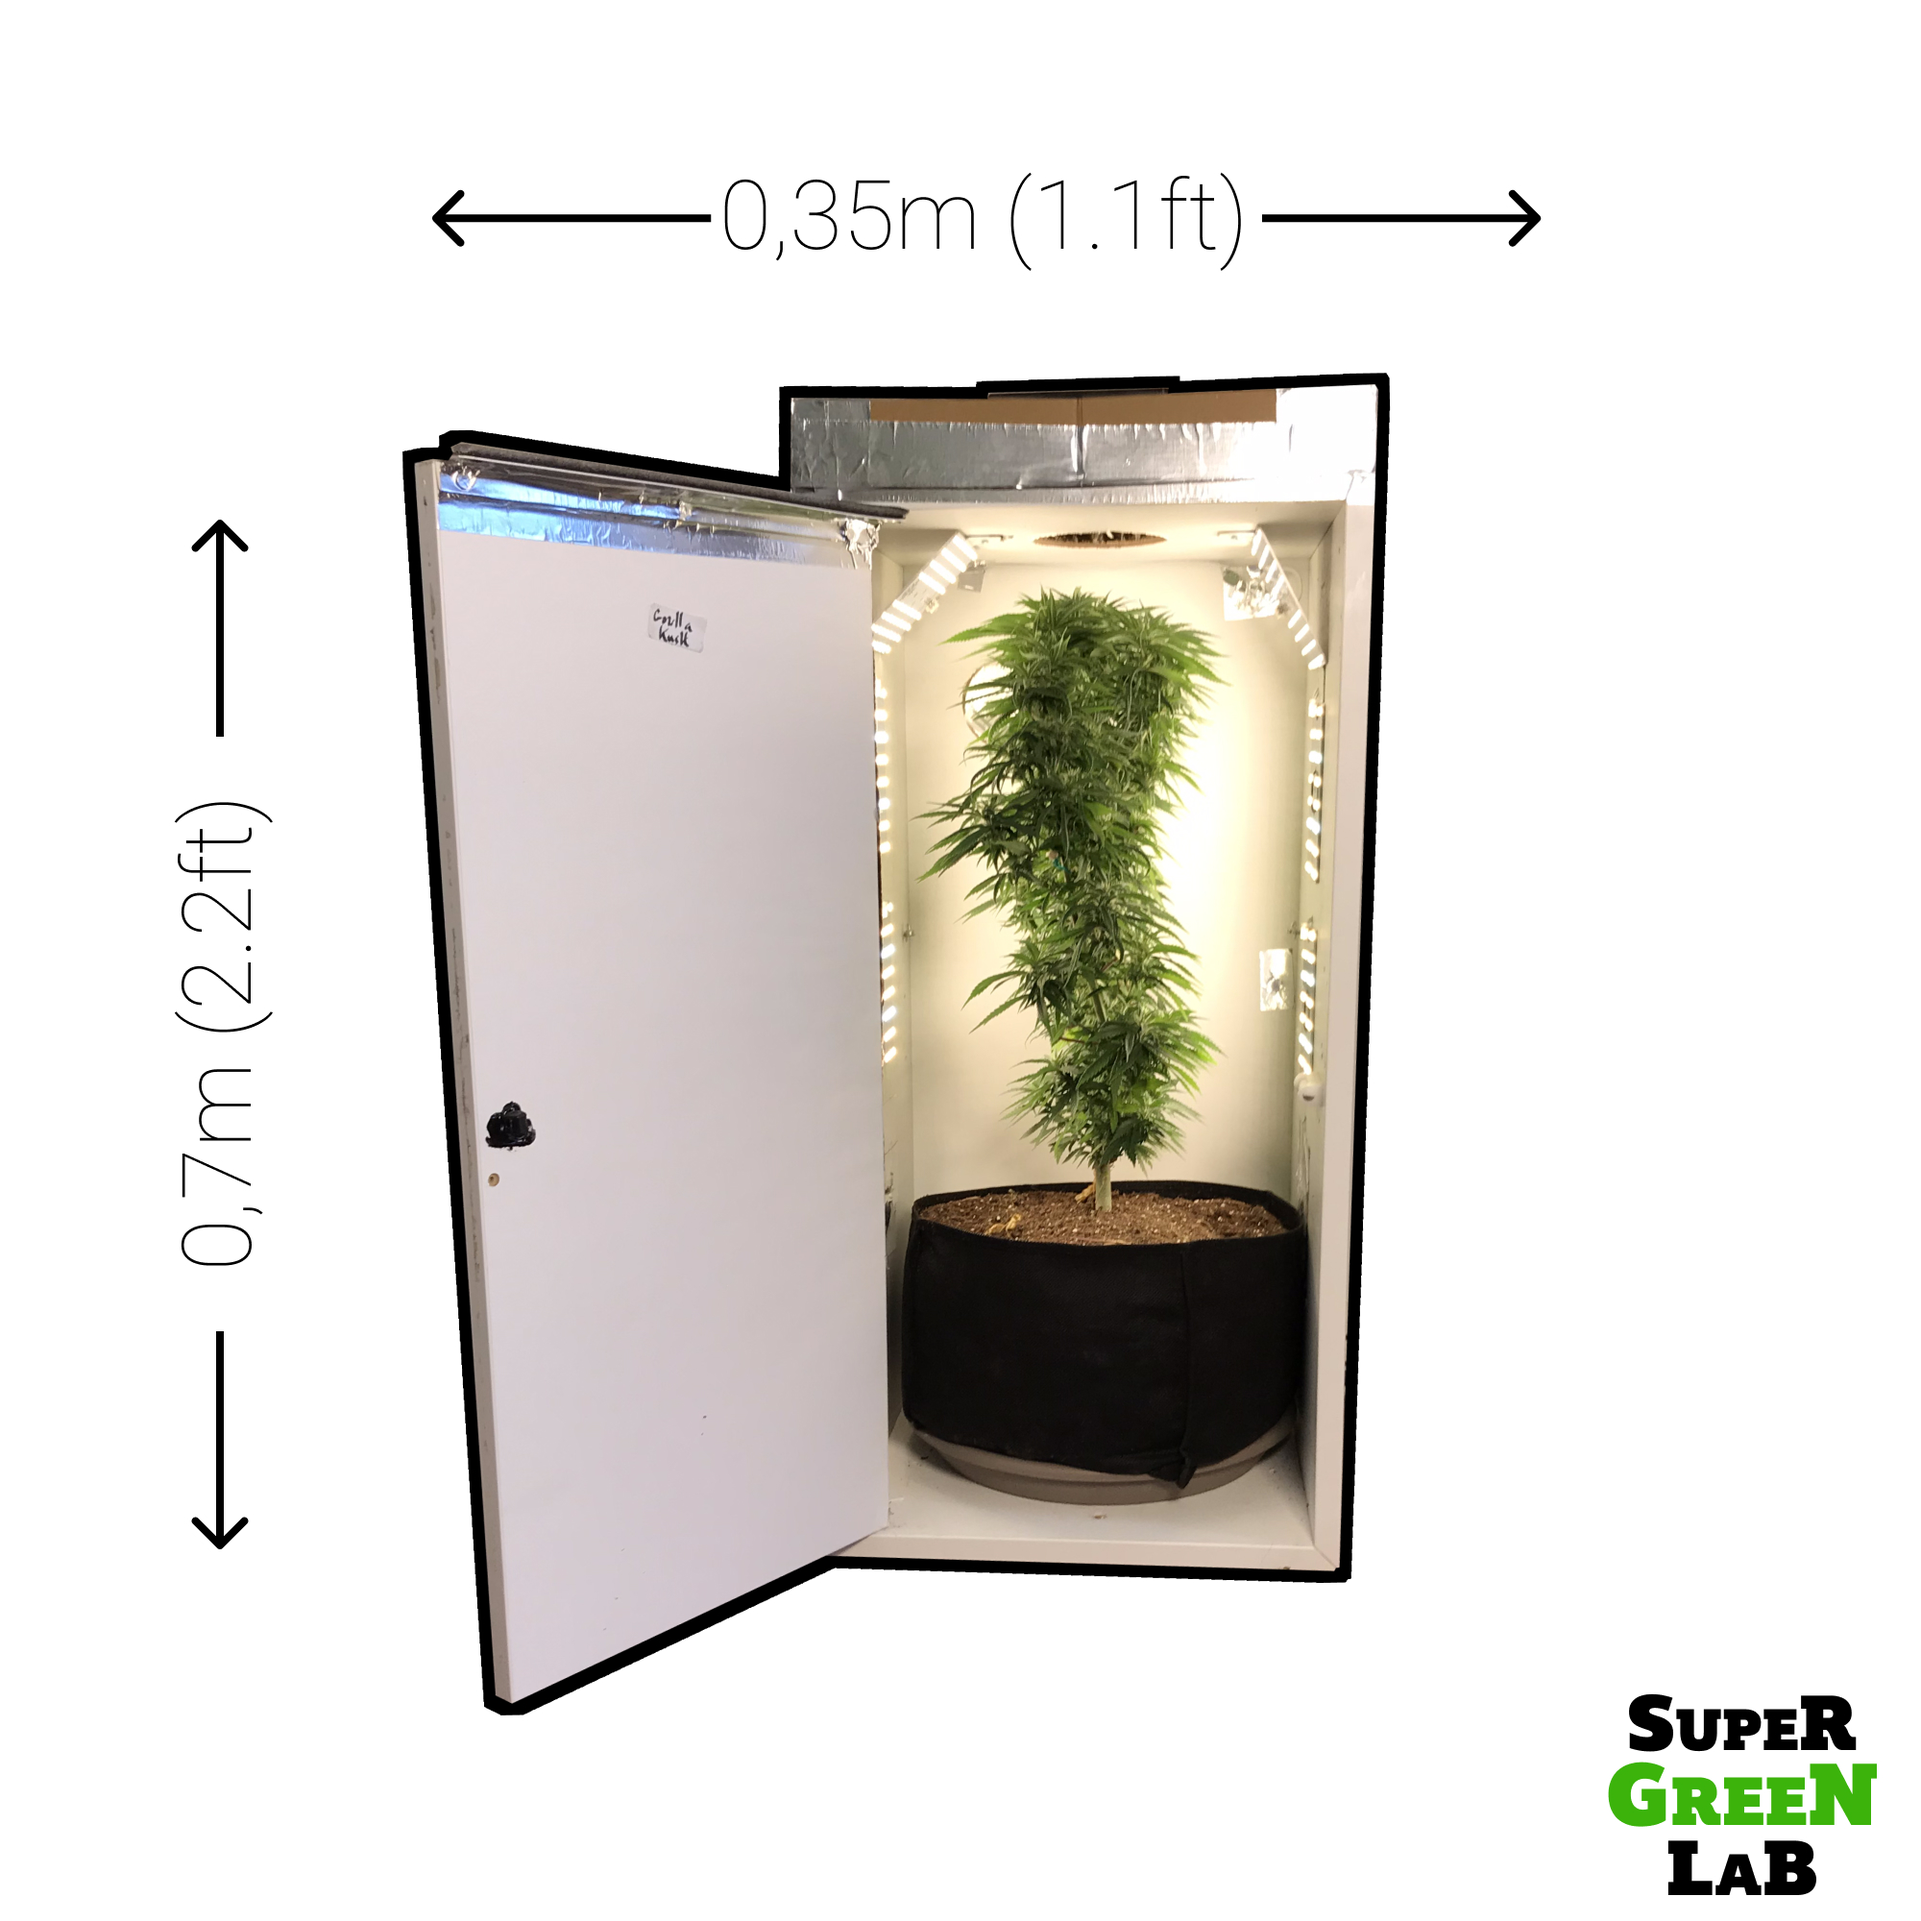
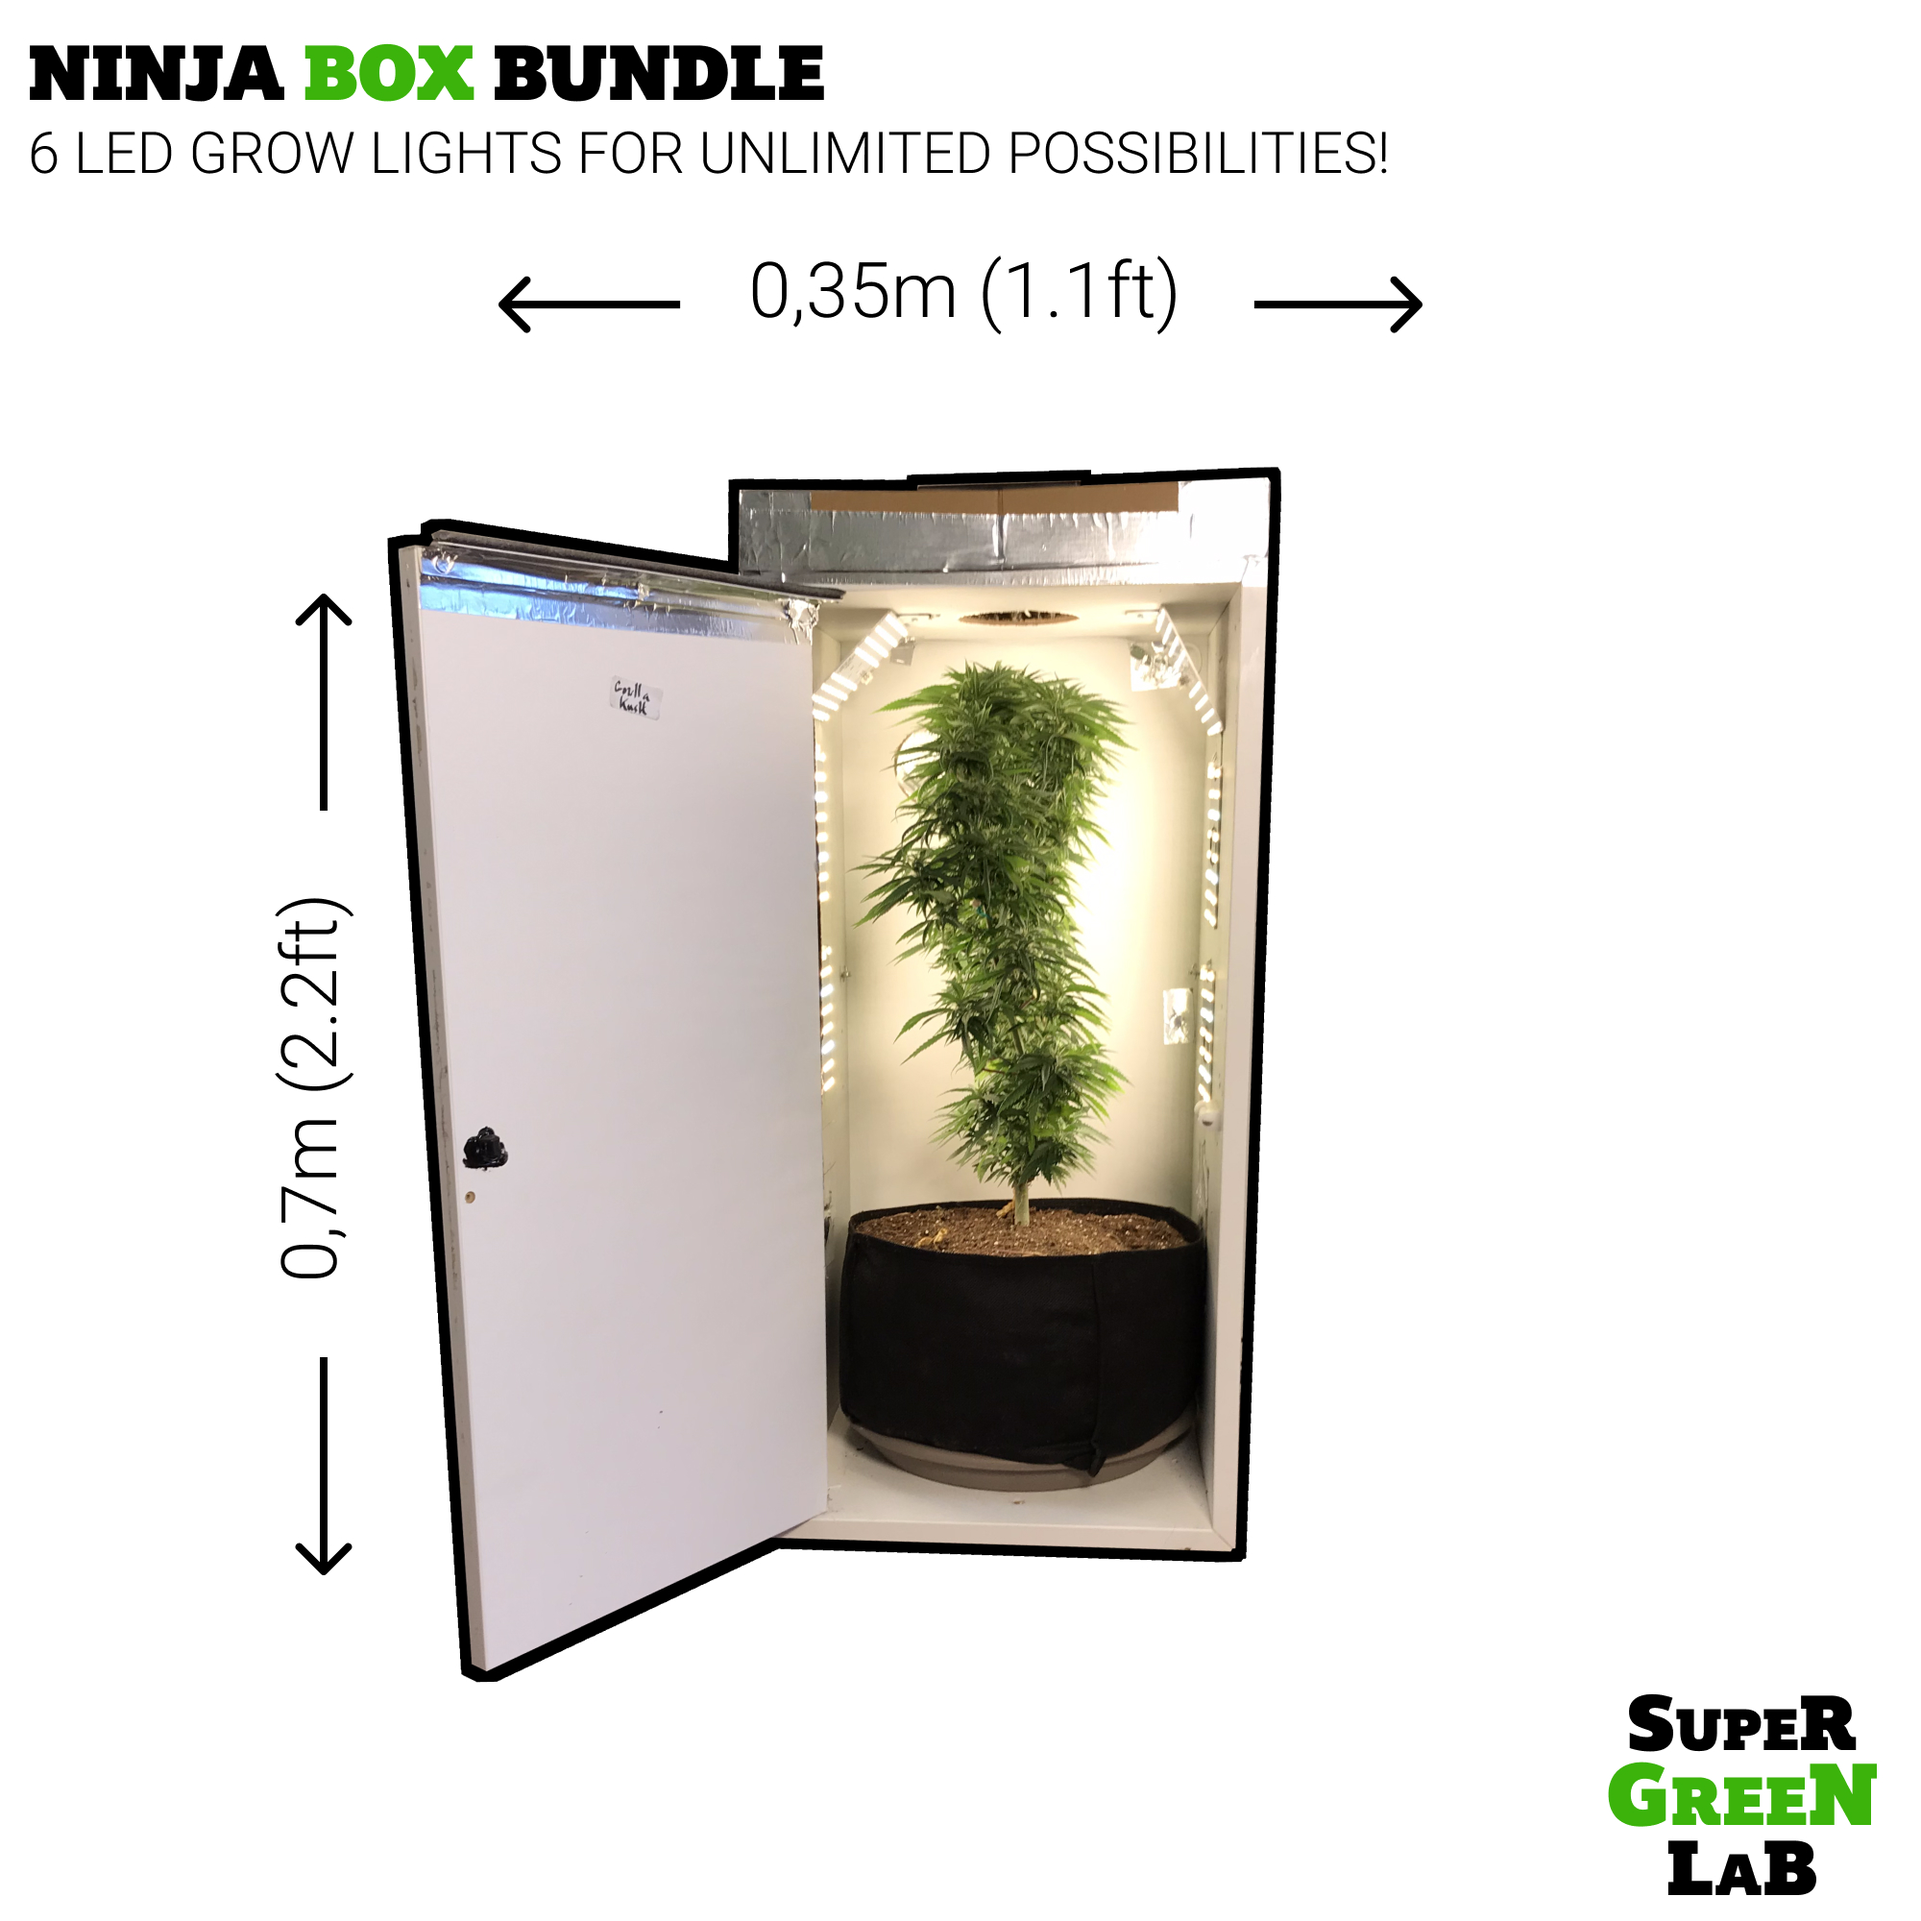
fixed ninja pic name, more pictures

diff --git a/components/homesection-bundle.vue b/components/homesection-bundle.vue
@@ -29,6 +29,8 @@
       <div :id='$style.iconcontainer'>
         <div :class='$style.icon' :style='{"background-image": `url(${require(`~/assets/img/${icon}`)})`, opacity: n == 0 ? 1 : 0}' @click='toggleZoom'></div>
         <div :class='$style.icon' :style='{"background-image": `url(${require(`~/assets/img/${setupicon}`)})`, opacity: n == 1 ? 1 : 0}' @click='toggleZoom'></div>
+        <div :class='$style.icon' :style='{"background-image": `url(${require(`~/assets/img/${setupicon2}`)})`, opacity: n == 2 ? 1 : 0}' @click='toggleZoom'></div>
+        <div :class='$style.icon' :style='{"background-image": `url(${require(`~/assets/img/${setupicon3}`)})`, opacity: n == 3 ? 1 : 0}' @click='toggleZoom'></div>
         <div :id='$style.leftarrow' @click='previous'></div>
         <div :id='$style.rightarrow' @click='next'></div>
       </div>
@@ -78,7 +80,7 @@ import OutOfStock from '~/components/outofstock.vue'
 
 export default {
   components: {Items, Price, OutOfStock,},
-  props: ['slug', 'title', 'subtitle', 'description', 'icon', 'setupicon', 'bullets', 'price', 'right', 'bigleds', 'smallleds', 'tinyleds', 'ventilation', 'sensor', 'url', 'nobottom', 'addtocart', 'noframe', 'promodiscount', 'outofstock',],
+  props: ['slug', 'title', 'subtitle', 'description', 'icon', 'setupicon', 'setupicon2', 'setupicon3', 'bullets', 'price', 'right', 'bigleds', 'smallleds', 'tinyleds', 'ventilation', 'sensor', 'url', 'nobottom', 'addtocart', 'noframe', 'promodiscount', 'outofstock',],
   data() {
     return {
       showZoom: false,
@@ -88,7 +90,7 @@ export default {
   },
   created() {
     this.interval = setInterval(() => {
-      this.$data.n = (this.$data.n+1) % 2
+      this.$data.n = (this.$data.n+1) % 4
     }, 3000)
   },
   destroyed() {
@@ -109,13 +111,13 @@ export default {
       this.$data.showZoom = !this.$data.showZoom
     },
     next() {
-      this.$data.n = (this.$data.n+1) % 2
+      this.$data.n = (this.$data.n+1) % 4
       clearInterval(this.interval)
       this.interval = null
     },
     previous() {
       this.$data.n = (this.$data.n-1)
-      if (this.$data.n < 0) this.$data.n = 1
+      if (this.$data.n < 0) this.$data.n = 3
       clearInterval(this.interval)
       this.interval = null
     },

diff --git a/nuxt.config.js b/nuxt.config.js
@@ -29,10 +29,6 @@ export default {
   */
   css: [
     '@/assets/css/global.css',
-    '@/assets/css/froala_blocks.min.css',
-    '@/assets/css/froala_editor.pkgd.min.css',
-    '@/assets/css/bootstrap.min.css',
-    '@/assets/css/froala_style.min.css'
   ],
 
   /*
